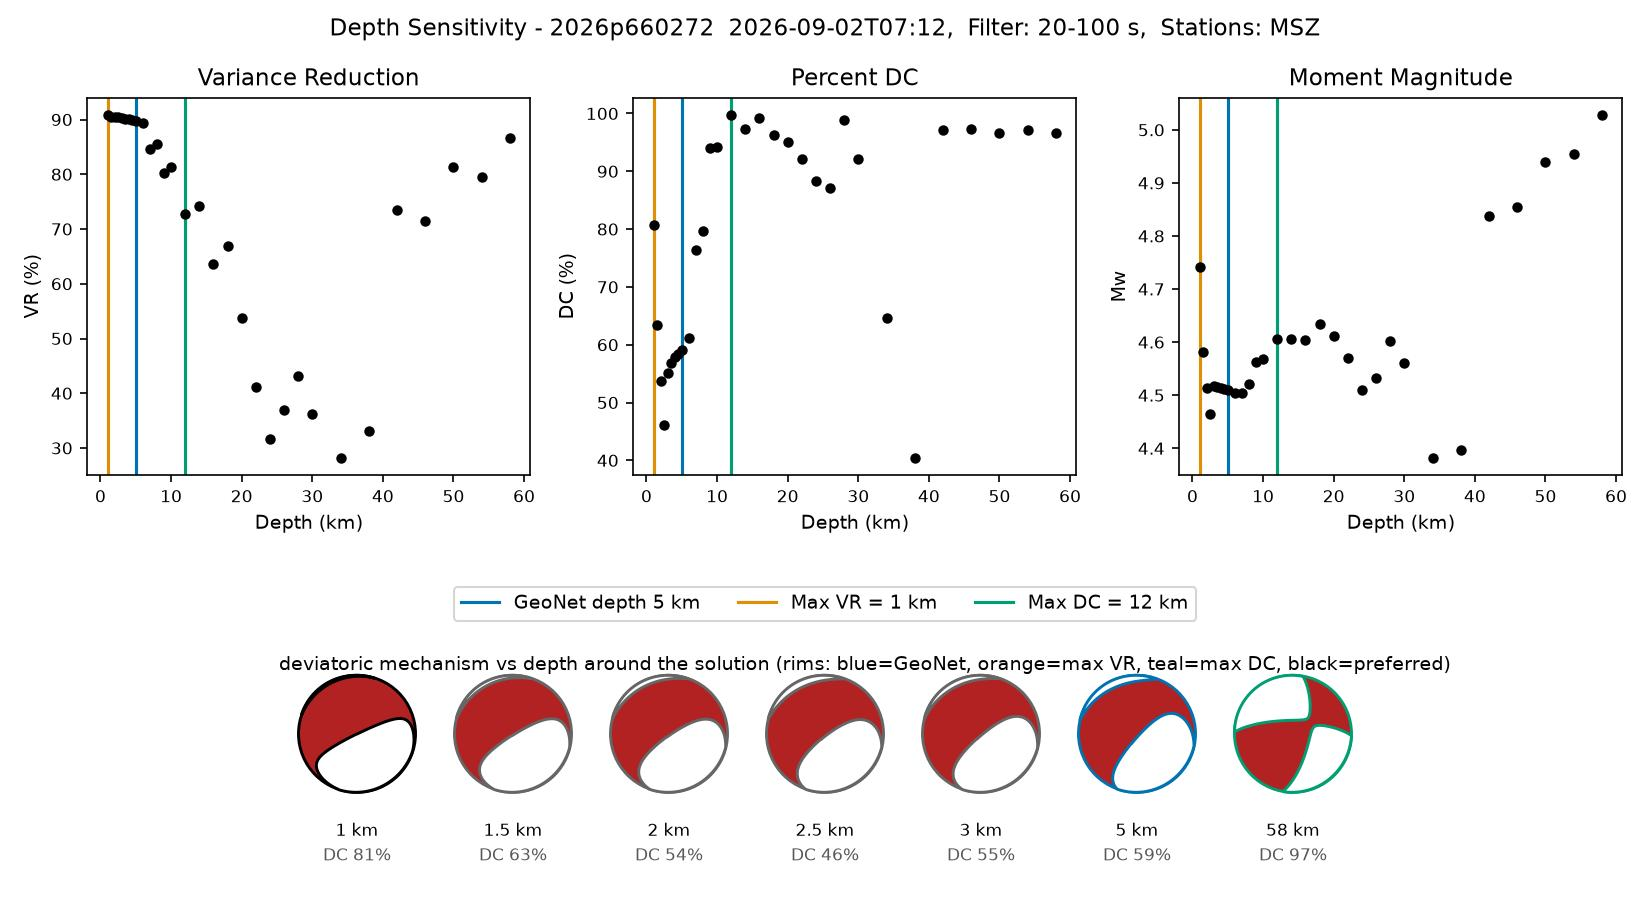
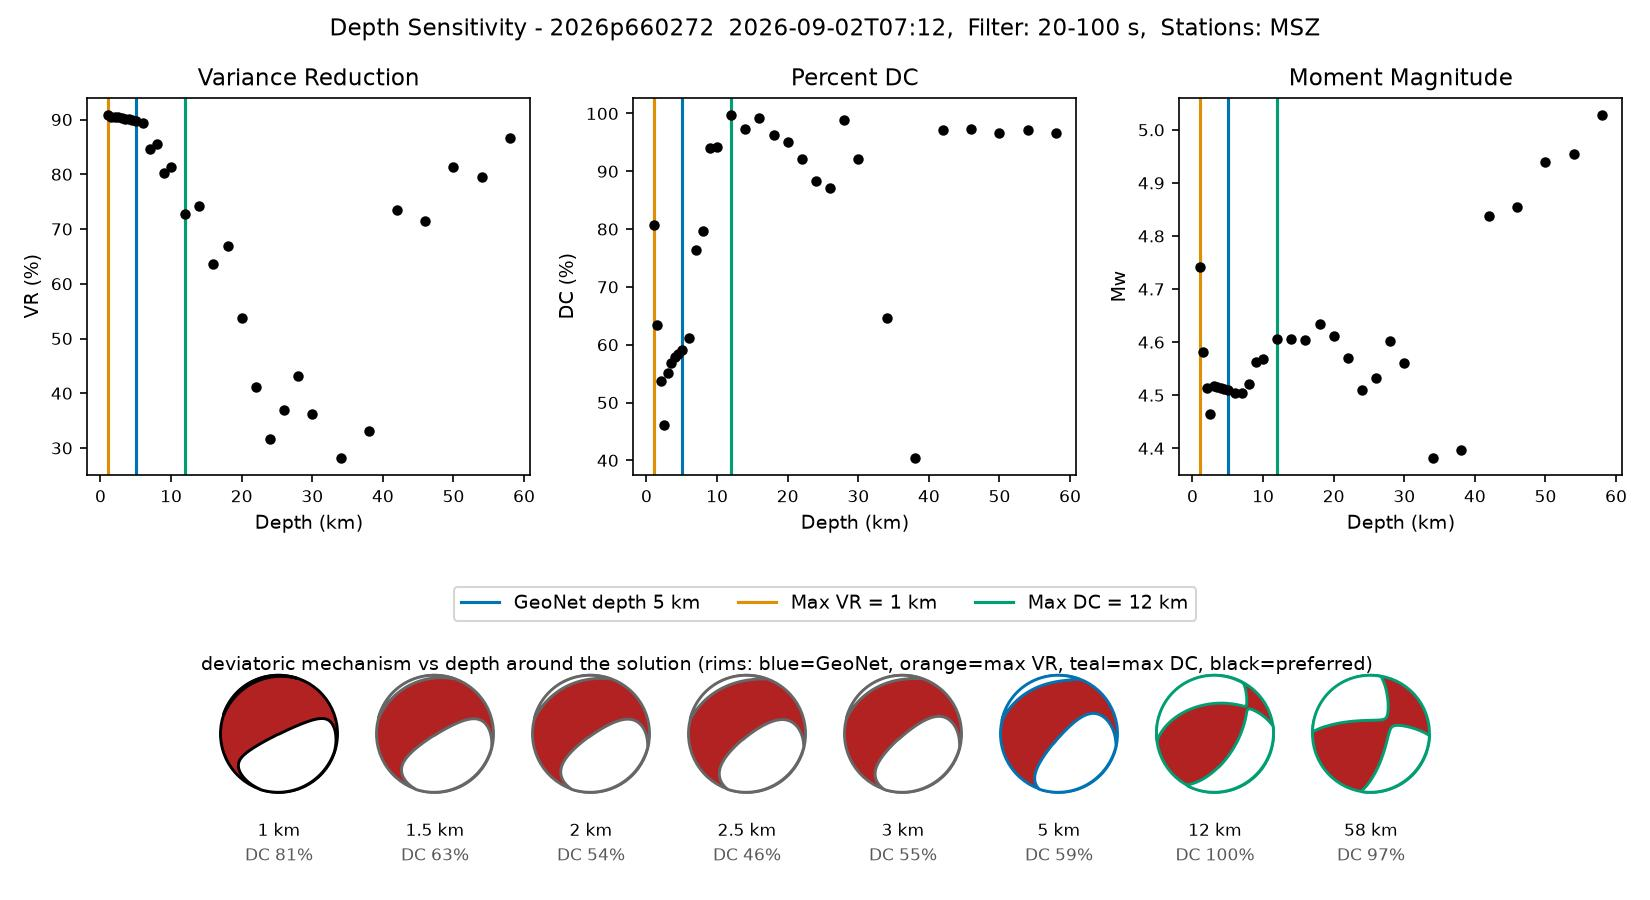
letter grades + tiered SNR, deviatoric disclaimer, personal-project reframing, figure polish
- BSL-style A-D quality grades (A/B emailed, C/D archived for specialists);
  tiered SNR admits 1.2-2.0 stations when coverage is thin
- explicit deviatoric-only limitations statement in every email
- repo reframed as a personal external InSAR rapid-response tool; removed
  characterisations of any organisation's internal operations
- depth strip includes the global max-DC mechanism; station panel drawn at
  displacement-panel size

Changed region(s): [[0.1236, 0.7156, 0.8655, 0.9644]]

diff --git a/figure.py b/figure.py
@@ -44,12 +44,13 @@ def make_share_figure(
     ev = solution["event"]
     pref = solution["preferred"]
     lon0, lat0 = ev["longitude"], ev["latitude"]
-    roi = map_style.event_region(ev, solution["stations_used"], pad_deg=0.6)
+    roi = map_style.square_region(
+        map_style.event_region(ev, solution["stations_used"], pad_deg=0.6))
 
     fig = plt.figure(figsize=(17.5, 11.2))
 
     # ---- panel a: stations + full-MT beachball over the station ROI -------
-    ax = map_style.geo_axes(fig, [0.03, 0.565, 0.19, 0.365], roi)
+    ax = map_style.geo_axes(fig, [0.015, 0.565, 0.22, 0.365], roi)
     map_style.draw_context(ax, roi, ccrs, gnss=False)
     map_style.scale_bar(ax, roi, ccrs)
     # candidates that were dropped: grey; used stations: coloured by the
@@ -254,20 +255,24 @@ def plot_depth_sensitivity(solution: dict, out_path: Path) -> Path:
     # strip: ~7 mechanisms pinned to the key depths (GeoNet, max VR,
     # windowed max DC, preferred) with neighbours of the preferred depth
     # filled in, to make the depth trade-off around the solution visual
-    key_depths = {geonet_depth, vr_max_depth, dc_win_depth,
+    # always include the GLOBAL max-DC depth (the teal reference line must
+    # have its ball in the strip), plus GeoNet, max VR and the preferred
+    key_depths = {geonet_depth, vr_max_depth, dc_max_depth, dc_win_depth,
                   pref["depth_km"]}
     i_pref = depths.index(pref["depth_km"])
     step = 1
-    while len(key_depths) < min(7, len(depths)):
+    limit = min(8, len(depths))
+    while len(key_depths) < limit:
         for j in (i_pref - step, i_pref + step):
-            if 0 <= j < len(depths) and len(key_depths) < 7:
+            if 0 <= j < len(depths) and len(key_depths) < limit:
                 key_depths.add(depths[j])
         step += 1
     window = [r for r in rows if r["depth_km"] in key_depths]
     window.sort(key=lambda r: r["depth_km"])
     # rim colours match the reference lines; preferred wins a collision
     edge_for = {geonet_depth: c_geonet, vr_max_depth: c_vr,
-                dc_win_depth: c_dc, pref["depth_km"]: "black"}
+                dc_max_depth: c_dc, dc_win_depth: c_dc,
+                pref["depth_km"]: "black"}
 
     with plt.style.context("default"):
         fig, axes = plt.subplots(1, 3, figsize=(11, 6))

diff --git a/waveforms.py b/waveforms.py
@@ -185,9 +185,10 @@ def fetch_and_process(
             corners=config.FILTER_CORNERS, zerophase=True,
         )
         snr = _snr(snr_st, origin)
-        if snr < config.MIN_SNR:
-            _drop(f"SNR {snr:.1f} < {config.MIN_SNR}")
+        if snr < config.SNR_TIER_LOW:
+            _drop(f"SNR {snr:.1f} < {config.SNR_TIER_LOW} (low tier floor)")
             continue
+        row["snr_tier"] = "ok" if snr >= config.MIN_SNR else "low"
 
         if stages is not None:
             for src, key in ((raw_copy, "raw"), (st.copy(), "displacement")):
@@ -246,8 +247,34 @@ def fetch_and_process(
         row["filter_hz"] = [fmin, fmax]
         used.append(row)
 
-    assert used, f"all {len(rows)} candidate stations dropped: {dropped}"
-    return used, dropped
+    # tiered selection: prefer SNR >= MIN_SNR; top up with low-tier
+    # stations (down to SNR_TIER_LOW) only when coverage is thin, so sparse
+    # or coda-contaminated events keep azimuthal coverage. The quality
+    # grade reports what the solution is worth; the tier is recorded.
+    ok_rows = [r for r in used if r["snr_tier"] == "ok"]
+    low_rows = sorted((r for r in used if r["snr_tier"] == "low"),
+                      key=lambda r: -r["snr"])
+    if len(ok_rows) >= config.TIER_TARGET_STATIONS:
+        keep = ok_rows
+        surplus = low_rows
+    else:
+        need = config.TIER_TARGET_STATIONS - len(ok_rows)
+        keep = ok_rows + low_rows[:need]
+        surplus = low_rows[need:]
+    for r in surplus:
+        sid = f"{r['network']}.{r['station']}.{r['location']}"
+        for comp in "ZRT":
+            (workdir / f"{sid}.{comp}.dat").unlink(missing_ok=True)
+        dropped.append({
+            "station": sid,
+            "reason": f"SNR {r['snr']:.1f} < {config.MIN_SNR} "
+                      f"(low tier, coverage already sufficient)",
+            "latitude": r["latitude"], "longitude": r["longitude"],
+            "distance_km": round(r["distance_km"], 1),
+        })
+    keep.sort(key=lambda r: r["distance_km"])
+    assert keep, f"all {len(rows)} candidate stations dropped: {dropped}"
+    return keep, dropped
 
 
 def _snr(st: Stream, origin: UTCDateTime) -> float:

diff --git a/tests/test_pipeline.py b/tests/test_pipeline.py
@@ -121,11 +121,12 @@ def test_processing_floor():
     assert not trigger.passes_processing_floor(_event(lat=-20.0))[0]  # Tonga
 
 
-def _solution(mw=5.2, vr=70.0, passed=True):
+def _solution(mw=5.2, vr=70.0, grade="A"):
     return {
         "event": {"public_id": "t", "latitude": -44.4, "longitude": 168.3},
         "preferred": {"mw": mw, "vr": vr},
-        "quality": {"passed": passed, "checks": {}},
+        "quality": {"passed": grade in ("A", "B"), "grade": grade,
+                    "checks": {}},
     }
 
 
@@ -139,8 +140,33 @@ def test_publish_gates():
     assert d["publish"], "displacement gate alone should publish"
     d = trigger.publish_decision(_solution(mw=4.6), fwd_none, [])
     assert not d["publish"]
-    d = trigger.publish_decision(_solution(mw=5.2, passed=False), fwd_big, [])
-    assert not d["publish"], "quality-gate failure blocks publication"
+    d = trigger.publish_decision(_solution(mw=5.2, grade="C"), fwd_big, [])
+    assert not d["publish"], "grade C/D blocks publication"
+    d = trigger.publish_decision(_solution(mw=5.2, grade="B"), fwd_none, [])
+    assert d["publish"], "grade B is emailable"
+
+
+def test_quality_grades():
+    gates = invert.quality_gates
+    def sol(vr, stations, azimuths):
+        return {
+            "preferred": {"vr": vr, "depth_km": 10.0},
+            "stations_used": [
+                {"azimuth": a} for a in azimuths[:stations]
+            ],
+        }
+    # A: strong VR, good coverage
+    q = gates(sol(75, 6, [0, 60, 120, 180, 240, 300]))
+    assert q["grade"] == "A" and q["passed"]
+    # B: decent VR, 3 stations, wide gap
+    q = gates(sol(65, 3, [0, 90, 180]))
+    assert q["grade"] == "B" and q["passed"]
+    # C: 2 stations
+    q = gates(sol(80, 2, [0, 90]))
+    assert q["grade"] == "C" and not q["passed"]
+    # D: single station
+    q = gates(sol(90, 1, [0]))
+    assert q["grade"] == "D" and not q["passed"]
 
 
 def test_aftershock_throttle():

diff --git a/publish.py b/publish.py
@@ -44,7 +44,15 @@ def draft_text(solution: dict, forward: dict, passes: list[dict]) -> tuple[str, 
         f"Velocity model: {solution['provenance']['velocity_model']}",
         f"Nodal plane 1 (strike/dip/rake): {p1['strike']:.0f}/{p1['dip']:.0f}/{p1['rake']:.0f}",
         f"Nodal plane 2 (strike/dip/rake): {p2['strike']:.0f}/{p2['dip']:.0f}/{p2['rake']:.0f}",
-        f"Stations used: {solution['quality']['n_stations_used']}",
+        f"Stations used: {solution['quality']['n_stations_used']}  |  "
+        f"Azimuthal gap: {solution['quality']['azimuthal_gap_deg']:.0f} deg  |  "
+        f"Quality grade: {solution['quality'].get('grade', '?')}",
+        "",
+        "LIMITATIONS: deviatoric-only inversion (no isotropic component) - "
+        "these mechanisms must not be interpreted in volcanic or geothermal "
+        "settings, where real isotropic components are forced into DC/CLVD. "
+        "Large misfit (low VR or grade C-D) indicates the automated result "
+        "is unreliable and additional processing is required.",
         "",
     ]
     if forward["detectable"]:

diff --git a/invert.py b/invert.py
@@ -269,6 +269,18 @@ def quality_gates(solution: dict) -> dict:
     ]
     az_gap = max(gaps) if gaps else 360.0
 
+    # BSL-style letter grade: one glance tells a scientist what the
+    # solution is worth. A/B are emailed; C/D are archived for specialists.
+    vr = pref["vr"]
+    if vr >= 70 and n_used >= 5 and az_gap <= 180:
+        grade = "A"
+    elif vr >= 60 and n_used >= 3 and az_gap <= 270:
+        grade = "B"
+    elif vr >= 50 and n_used >= 2:
+        grade = "C"
+    else:
+        grade = "D"
+
     checks = {
         "min_stations": n_used >= config.MIN_STATIONS_USED,
         "vr_floor": pref["vr"] >= config.MIN_VR_PUBLISH,
@@ -284,9 +296,10 @@ def quality_gates(solution: dict) -> dict:
     return {
         "n_stations_used": n_used,
         "azimuthal_gap_deg": round(az_gap, 1),
+        "grade": grade,
         "checks": checks,
         "warnings": warnings,
-        "passed": all(checks.values()),
+        "passed": grade in ("A", "B"),
     }
 
 

diff --git a/map_style.py b/map_style.py
@@ -37,6 +37,23 @@ def event_region(event: dict, stations: list[dict], pad_deg: float = 0.4) -> lis
     return [lon0, lon1, lat0, lat1]
 
 
+def square_region(region: list) -> list:
+    """Expand the shorter side so the region draws square in Mercator
+    (width ~ dlon, height ~ dlat/cos(mid_lat)) — used so panels with
+    different content still render at identical drawn size."""
+    lon0, lon1, lat0, lat1 = region
+    mid = 0.5 * (lat0 + lat1)
+    w = lon1 - lon0
+    h = (lat1 - lat0) / np.cos(np.radians(mid))
+    if w > h:
+        extra = (w - h) * np.cos(np.radians(mid)) / 2.0
+        lat0, lat1 = lat0 - extra, lat1 + extra
+    else:
+        extra = (h - w) / 2.0
+        lon0, lon1 = lon0 - extra, lon1 + extra
+    return [lon0, lon1, lat0, lat1]
+
+
 def geo_axes(fig, rect, region, labels=True):
     """Cartopy Mercator axes at an explicit figure rect [x, y, w, h]
     (manual placement: cartopy's fixed aspect fights layout engines)."""

diff --git a/config.py b/config.py
@@ -129,6 +129,12 @@ RESPONSE_PRE_FILT = (0.004, 0.007, 10.0, 20.0)
 # "a SNR higher than 2 is normally required to calculate a reliable moment
 # tensor" — stations below this are dropped (loudly, recorded in provenance).
 MIN_SNR = 2.0
+# Tiered acceptance: when fewer than TIER_TARGET_STATIONS pass MIN_SNR,
+# stations down to SNR_TIER_LOW are admitted (tagged snr_tier="low") so
+# sparse/coda-contaminated events keep azimuthal coverage; the letter
+# quality grade, not a hard gate, then tells the reader what it is worth.
+SNR_TIER_LOW = 1.2
+TIER_TARGET_STATIONS = 5
 
 # ---------------------------------------------------------------------------
 # Green's function library grid

diff --git a/trigger.py b/trigger.py
@@ -43,8 +43,11 @@ def publish_decision(solution: dict, forward: dict,
     ev = solution["event"]
     reasons = []
 
+    grade = solution["quality"].get("grade", "?")
     if not solution["quality"]["passed"]:
-        reasons.append(f"quality gates failed: {solution['quality']['checks']}")
+        reasons.append(
+            f"quality grade {grade} (email requires A or B): "
+            f"{solution['quality']['checks']}")
 
     mw_ok = pref["mw"] >= config.PUBLISH_MIN_MW
     disp_ok = forward["peak_abs_m"] >= config.PUBLISH_MIN_PRED_DISP_M

diff --git a/catalogue.py b/catalogue.py
@@ -4,7 +4,7 @@ Regenerates events/catalogue.csv from every events/<publicID>/solution.json
 after each processed event — the CSV is always derived from the archived
 sidecars (single source of truth), never edited by hand.
 
-Column conventions follow GeoNet's manual CMT catalogue
+Column conventions follow the published NZ regional CMT solutions CSV
 (GeoNet/data moment-tensor/GeoNet_CMT_solutions.csv) where they overlap so
 the two are directly comparable; note their (and our) MT elements are in
 units of 1e20 dyne-cm.

diff --git a/README.md b/README.md
@@ -1,14 +1,25 @@
 # auto_tdmt_NZ
 
-Automated regional moment tensor pipeline for New Zealand. GeoNet publishes
-no automated MT solutions (their CMT catalogue is manual, ~monthly); this
+**A personal tool for rapid InSAR response.** When a New Zealand earthquake
+happens, the question I need answered within minutes is: *has this event
+likely produced measurable surface displacement, and do I need to act as an
+InSAR scientist* (task acquisitions, prepare processing, look at the next
+NISAR/Sentinel-1 pass)? Answering that requires a moment tensor, so this
 pipeline watches the GeoNet quake feed, runs a Dreger-style time-domain
-moment tensor inversion ([LLNL mttime](https://github.com/LLNL/mttime)) with
-CPS Green's functions and the Ristau (2008) NZ velocity models, forward-models
-the predicted surface displacement (Okada), reports NISAR acquisition timing
-over the epicentre, and emails solutions to a distribution list.
+moment tensor inversion ([LLNL mttime](https://github.com/LLNL/mttime))
+with CPS Green's functions and the Ristau (2008) NZ velocity models,
+forward-models the predicted surface displacement for both nodal planes
+(Okada), reports NISAR acquisition timing over the epicentre, and emails
+the result to a small list. The moment tensor solutions are a useful
+by-product for other scientists; the displacement field is the point.
 
-**All solutions are PRELIMINARY and produced without human review.**
+This is a personal, external project by Danielle Lindsay, not an
+operational product of any agency, and it makes no representation about
+any organisation's internal systems.
+
+**All solutions are PRELIMINARY, deviatoric-only, and produced without
+human review** — do not interpret mechanisms in volcanic/geothermal
+settings from these solutions.
 
 ## How it works
 
@@ -87,10 +98,10 @@ subscriber addresses never live in this public repo).
 ## Velocity models
 
 `models/nz_{north,south}_ristau2008.d` — Ristau (2008), SRL 79(3) Table 1,
-doi:10.1785/gssrl.79.3.400 — the same models GeoNet's regional CMT analysis
-was built on, so solutions are directly comparable to
-[GeoNet's CMT catalogue](https://github.com/GeoNet/data/tree/main/moment-tensor)
-(note their MT elements are in 1e20 dyne-cm).
+doi:10.1785/gssrl.79.3.400 — so solutions are directly comparable to the
+published NZ regional CMT solutions
+([GeoNet/data moment-tensor](https://github.com/GeoNet/data/tree/main/moment-tensor);
+their MT elements are in 1e20 dyne-cm).
 
 ## Data sources
 

diff --git a/docs/METHOD.md b/docs/METHOD.md
@@ -9,14 +9,21 @@ covers the science choices, module by module, and worked examples from the
 
 ## 1. Motivation and scope
 
-GeoNet computes regional moment tensors manually and publishes them in a
-CSV updated roughly monthly ([GeoNet/data moment-tensor](https://github.com/GeoNet/data/tree/main/moment-tensor));
-there is no automated or near-real-time MT product for New Zealand. This
-pipeline produces PRELIMINARY automated solutions minutes-to-hours after an
-event, using the same class of method (Dreger-style time-domain MT with 1-D
-Green's functions) and the same velocity models (Ristau 2008) as GeoNet's
-own regional CMT analysis, so solutions are directly comparable to the
-manual catalogue when it appears.
+This is a personal, external project. Its purpose is rapid InSAR response:
+within minutes of a New Zealand earthquake, decide whether it has likely
+produced measurable surface displacement and whether action is needed
+(acquisition tasking, processing preparation, checking the next NISAR
+pass). A moment tensor is the prerequisite for that displacement forecast,
+so the pipeline produces PRELIMINARY automated solutions
+minutes-to-hours after an event using the Dreger-style time-domain method
+with 1-D Green's functions and the published Ristau (2008) NZ velocity
+models; solutions are therefore directly comparable to the published NZ
+regional CMT solutions
+([GeoNet/data moment-tensor](https://github.com/GeoNet/data/tree/main/moment-tensor)),
+which serve as the validation reference. The MT solutions are a useful
+by-product for other scientists; the displacement field is the point.
+The project makes no representation about any organisation's internal or
+operational systems.
 
 The inversion engine is **mttime** (Chiang, LLNL;
 github.com/LLNL/mttime) — the Python implementation of Dreger's TDMT used
@@ -220,7 +227,7 @@ Key observations:
   components will be forced deviatoric.
 - Single-pass station rejection; no jackknife uncertainty yet (the EPS207
   jackknife scheme is the natural next addition).
-- Validation against GeoNet's manual CMT catalogue is implemented as a
+- Validation against the published NZ CMT solutions is implemented as a
   comparison hook but awaits their solutions for overlapping events
   (their CSV updates ~monthly; note their MT units are 1e20 dyne-cm).
 
